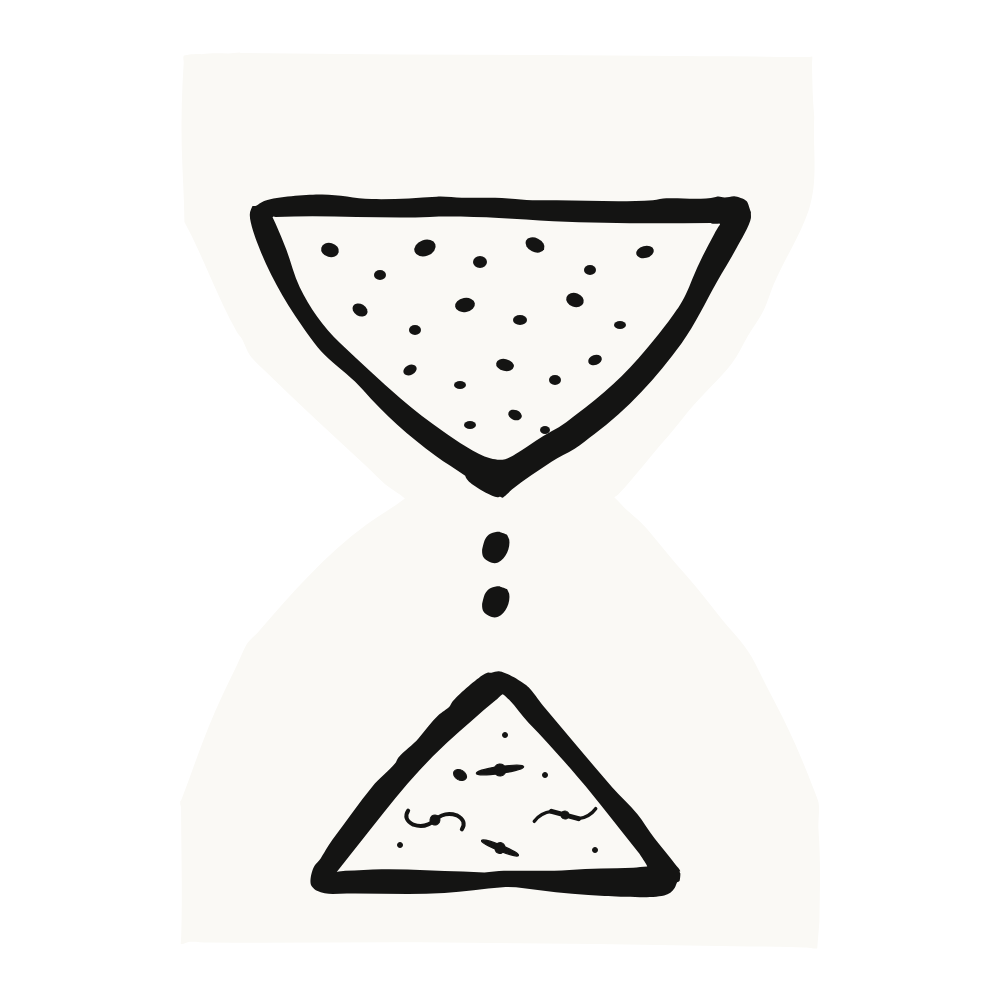
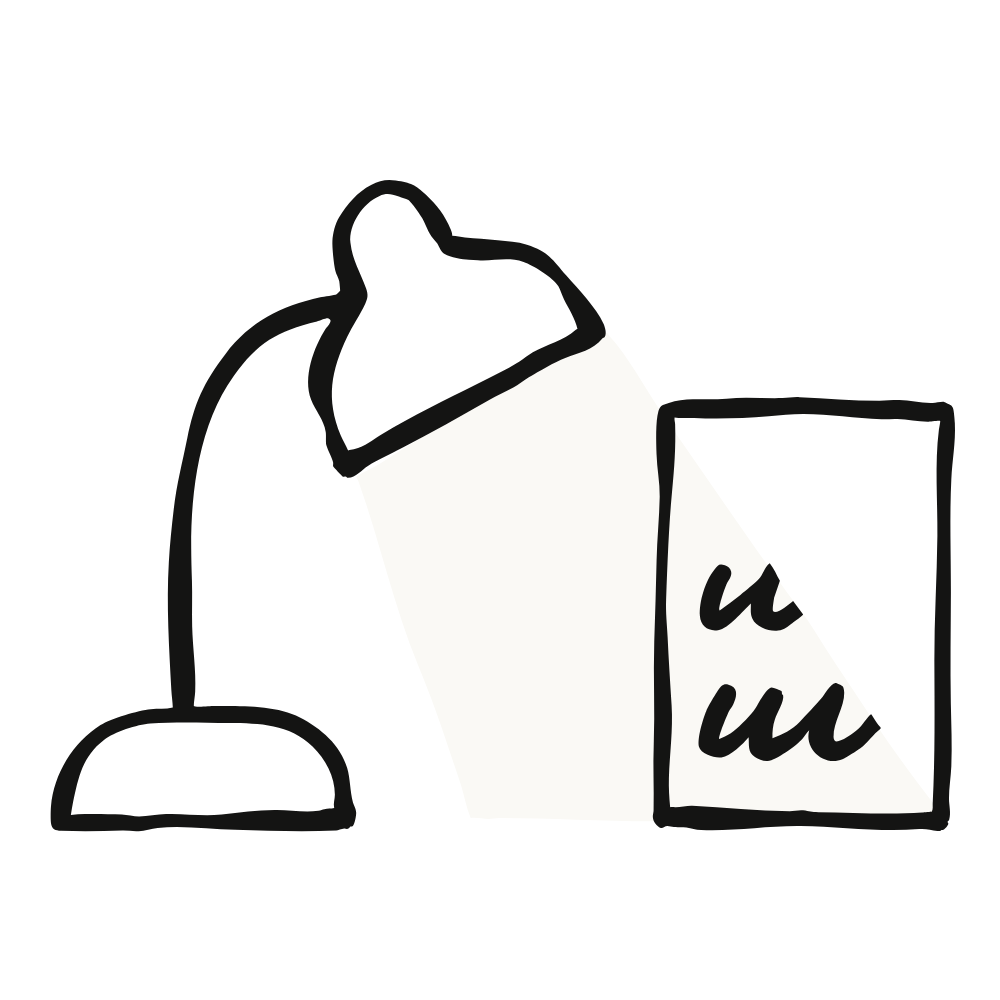
change img

diff --git a/docs/project_status.md b/docs/project_status.md
@@ -1,6 +1,6 @@
 # Project Status
 
-Last updated: 2026-07-05
+Last updated: 2026-07-07
 
 ## Current Snapshot
 
@@ -12,6 +12,10 @@ Last updated: 2026-07-05
 - Generated files live under `public/` and `resources/`; do not edit them by hand.
 
 ## Recent Notes
+
+### 2026-07-07 Home Hourglass Image Swap
+
+- Replaced `assets/images/home-hourglass.png` with the latest provided hand-drawn PNG while keeping the existing Home layout and color block styles unchanged.
 
 ### 2026-07-05 Search Anthropic Illustration
 
